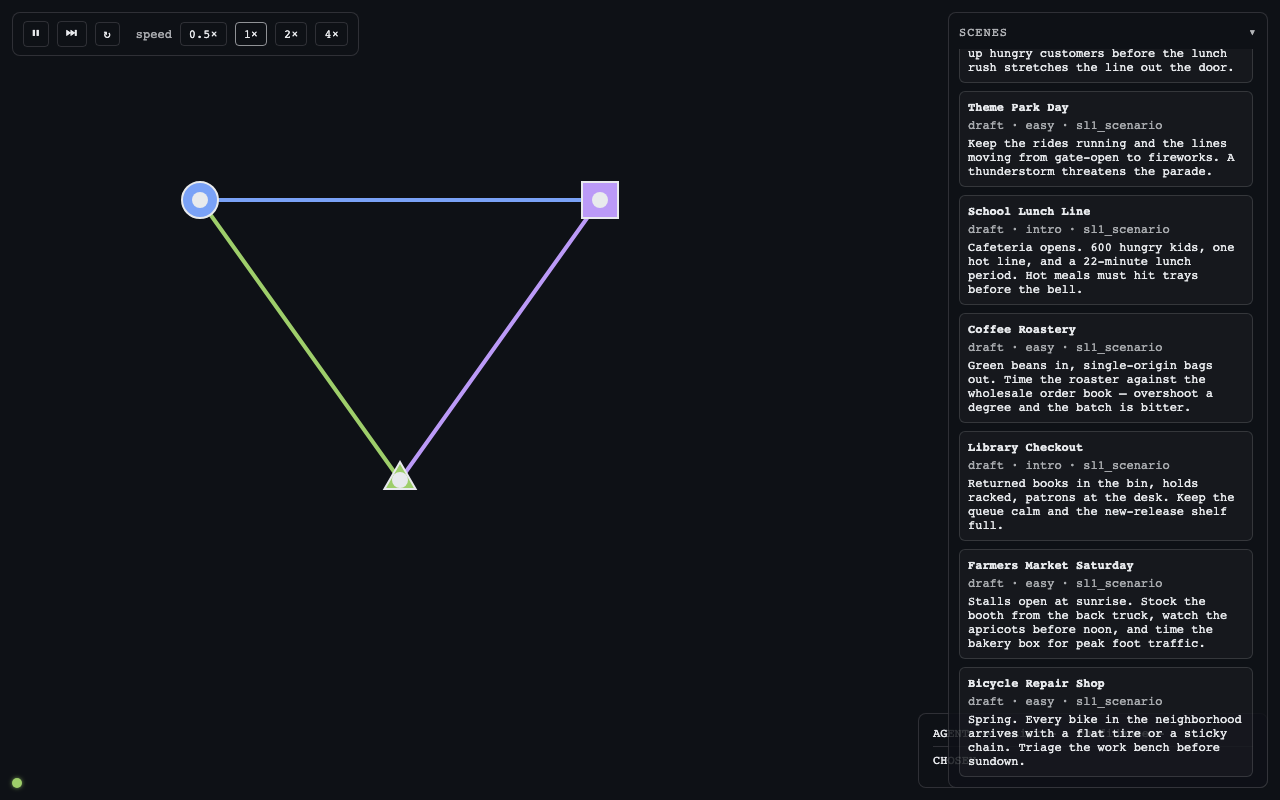
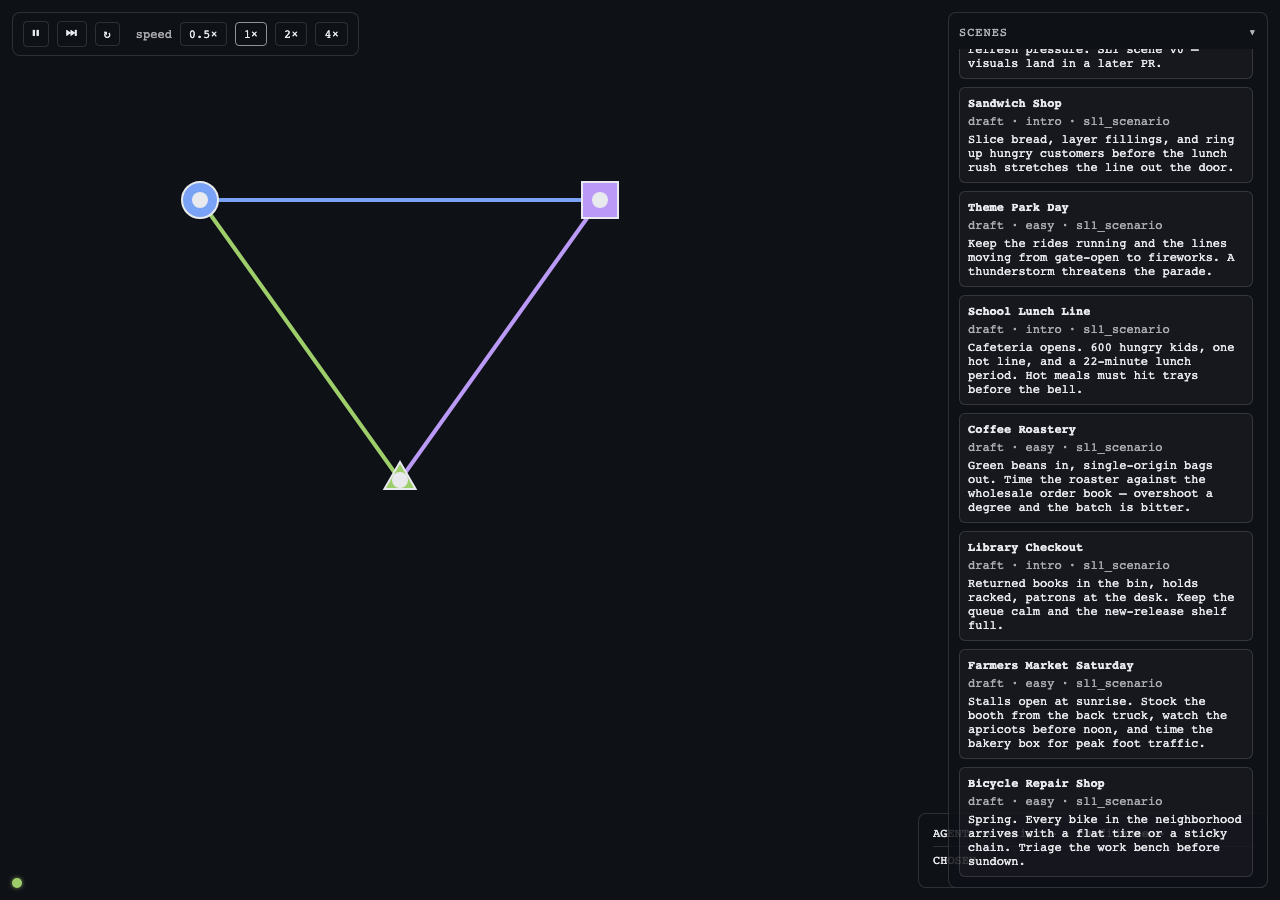
screenshots: replace identical full-page captures with per-scene catalog-card crops
The earlier per-scene full-page screenshots looked nearly identical
because the canvas does not render SL1 scenes yet (no shipped frontend
PR draws sl1_places/sl1_links) AND MockTransport ignores the selected
scene in the preview build. Only the highlight pixel changed.

Replace those four misleading PNGs with tight crops of each scene's
catalog card so the actual per-scene difference (title, difficulty
tag, description) is visible at a glance. Cover all 7 scenes, not 4.

Changed region(s): [[0.7188, 0.0312, 0.9688, 0.9688], [0.125, 0.1875, 0.5, 0.625], [0.0, 0.0, 0.2812, 0.0625]]

diff --git a/frontend/scripts/screenshot/capture.spec.ts b/frontend/scripts/screenshot/capture.spec.ts
@@ -1,6 +1,14 @@
 // One-shot screenshot capture for PR 15a. Not part of CI — invoked
 // via `npx playwright test --config scripts/screenshot/pw.config.ts`
 // from inside the frontend directory.
+//
+// The non-Tauri preview build does NOT load scene JSON when you select
+// a scene (MockTransport feeds a fixed demo regardless of selection),
+// and no shipped frontend PR draws sl1_places / sl1_links on the
+// canvas yet. So the only visually-differentiated surface per scene
+// is the catalog card itself (title + description + status + tags).
+// We capture a tight crop of each card rather than a full page to
+// avoid four near-identical full-page PNGs.
 
 import { test } from "@playwright/test";
 import * as path from "path";
@@ -10,14 +18,17 @@ const HERE = path.dirname(fileURLToPath(import.meta.url));
 const OUT = process.env.SHOWCASE_OUT ?? path.resolve(HERE, "../../../docs/showcase/pr15a");
 
 const SHOWCASE_SCENES = [
-  { id: "sandwich-shop", title: "Sandwich Shop" },
-  { id: "theme-park-day", title: "Theme Park Day" },
-  { id: "coffee-roastery", title: "Coffee Roastery" },
-  { id: "library-checkout", title: "Library Checkout" },
+  { id: "sandwich-shop" },
+  { id: "theme-park-day" },
+  { id: "school-lunch-line" },
+  { id: "coffee-roastery" },
+  { id: "library-checkout" },
+  { id: "farmers-market" },
+  { id: "bicycle-repair-shop" },
 ] as const;
 
 test("scene browser overview", async ({ page }) => {
-  await page.setViewportSize({ width: 1280, height: 800 });
+  await page.setViewportSize({ width: 1280, height: 900 });
   await page.goto("/");
   await page.locator("#simetro-scene-list").waitFor();
   await page.locator("#simetro-scene-bicycle-repair-shop").scrollIntoViewIfNeeded();
@@ -27,20 +38,20 @@ test("scene browser overview", async ({ page }) => {
   });
 });
 
-for (const scene of SHOWCASE_SCENES) {
-  test(`scene browser — ${scene.id} selected`, async ({ page }) => {
-    await page.setViewportSize({ width: 1280, height: 800 });
-    await page.goto("/");
+test("scene catalog cards (cropped)", async ({ page }) => {
+  await page.setViewportSize({ width: 1280, height: 900 });
+  await page.goto("/");
+  await page.locator("#simetro-scene-list").waitFor();
+  for (const scene of SHOWCASE_SCENES) {
     const button = page.locator(`#simetro-scene-${scene.id}`);
     await button.scrollIntoViewIfNeeded();
-    await button.click();
-    await page.waitForTimeout(150);
-    await page.screenshot({
-      path: path.join(OUT, `scene-${scene.id}.png`),
-      fullPage: true,
+    // small settle for scroll
+    await page.waitForTimeout(80);
+    await button.screenshot({
+      path: path.join(OUT, `card-${scene.id}.png`),
     });
-  });
-}
+  }
+});
 
 test("sl1 hud demo", async ({ page }) => {
   await page.setViewportSize({ width: 1280, height: 800 });
